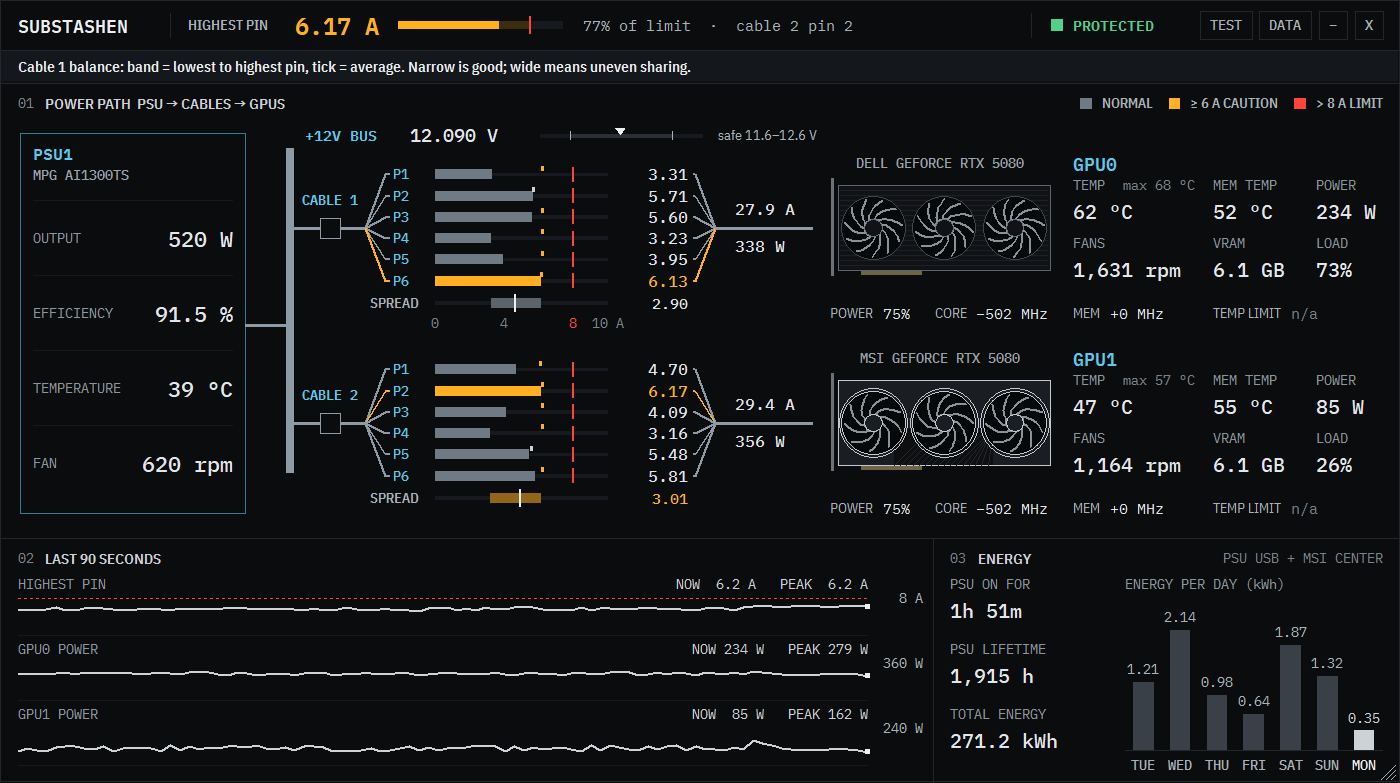
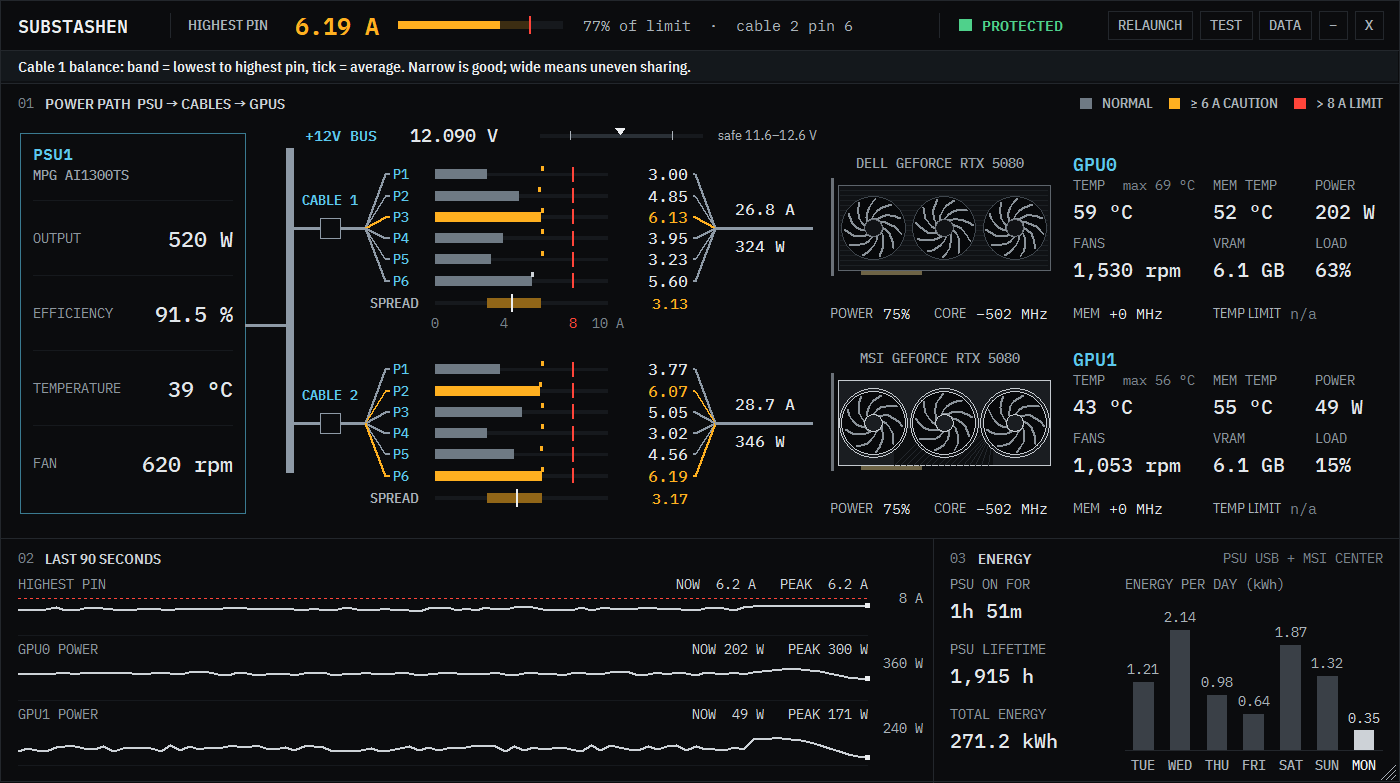
RELAUNCH button: restart in place; new copy waits for the old one to exit

diff --git a/README.md b/README.md
@@ -106,6 +106,7 @@ pythonw substashen.pyw
 | Key / action | Does |
 |---|---|
 | **TEST** button / `T` | Rings the alarm and shows the alert screen; nothing is closed |
+| **RELAUNCH** button | Closes and reopens Substashen (e.g. after updating it); protection pauses for a few seconds |
 | `C` or double-click the header | Switches between the **Full** and **Standard** view |
 | `D` / **DATA** | Every raw reading, plus the latest events |
 | `M` / **–** | Minimize to the taskbar (protection keeps running) |
